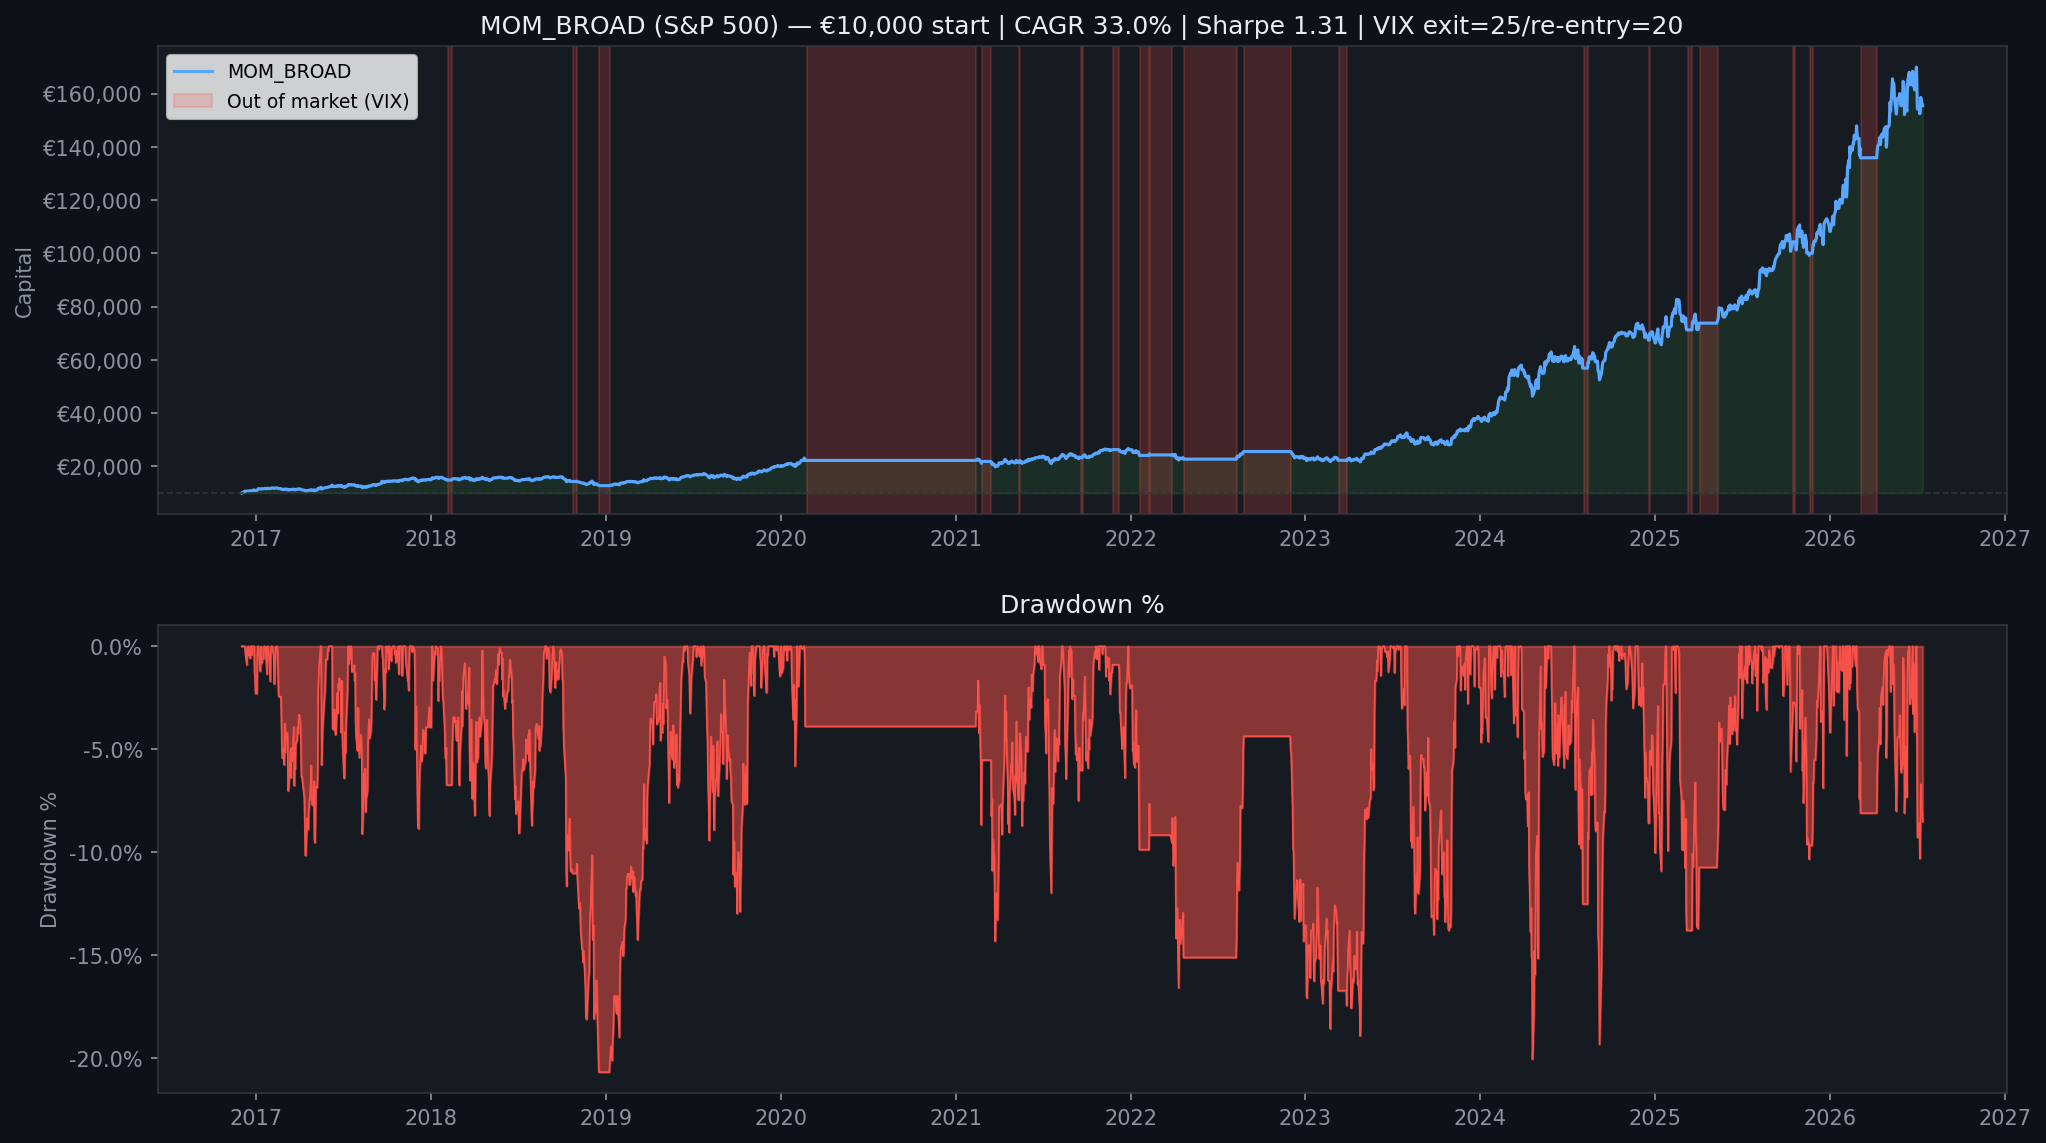
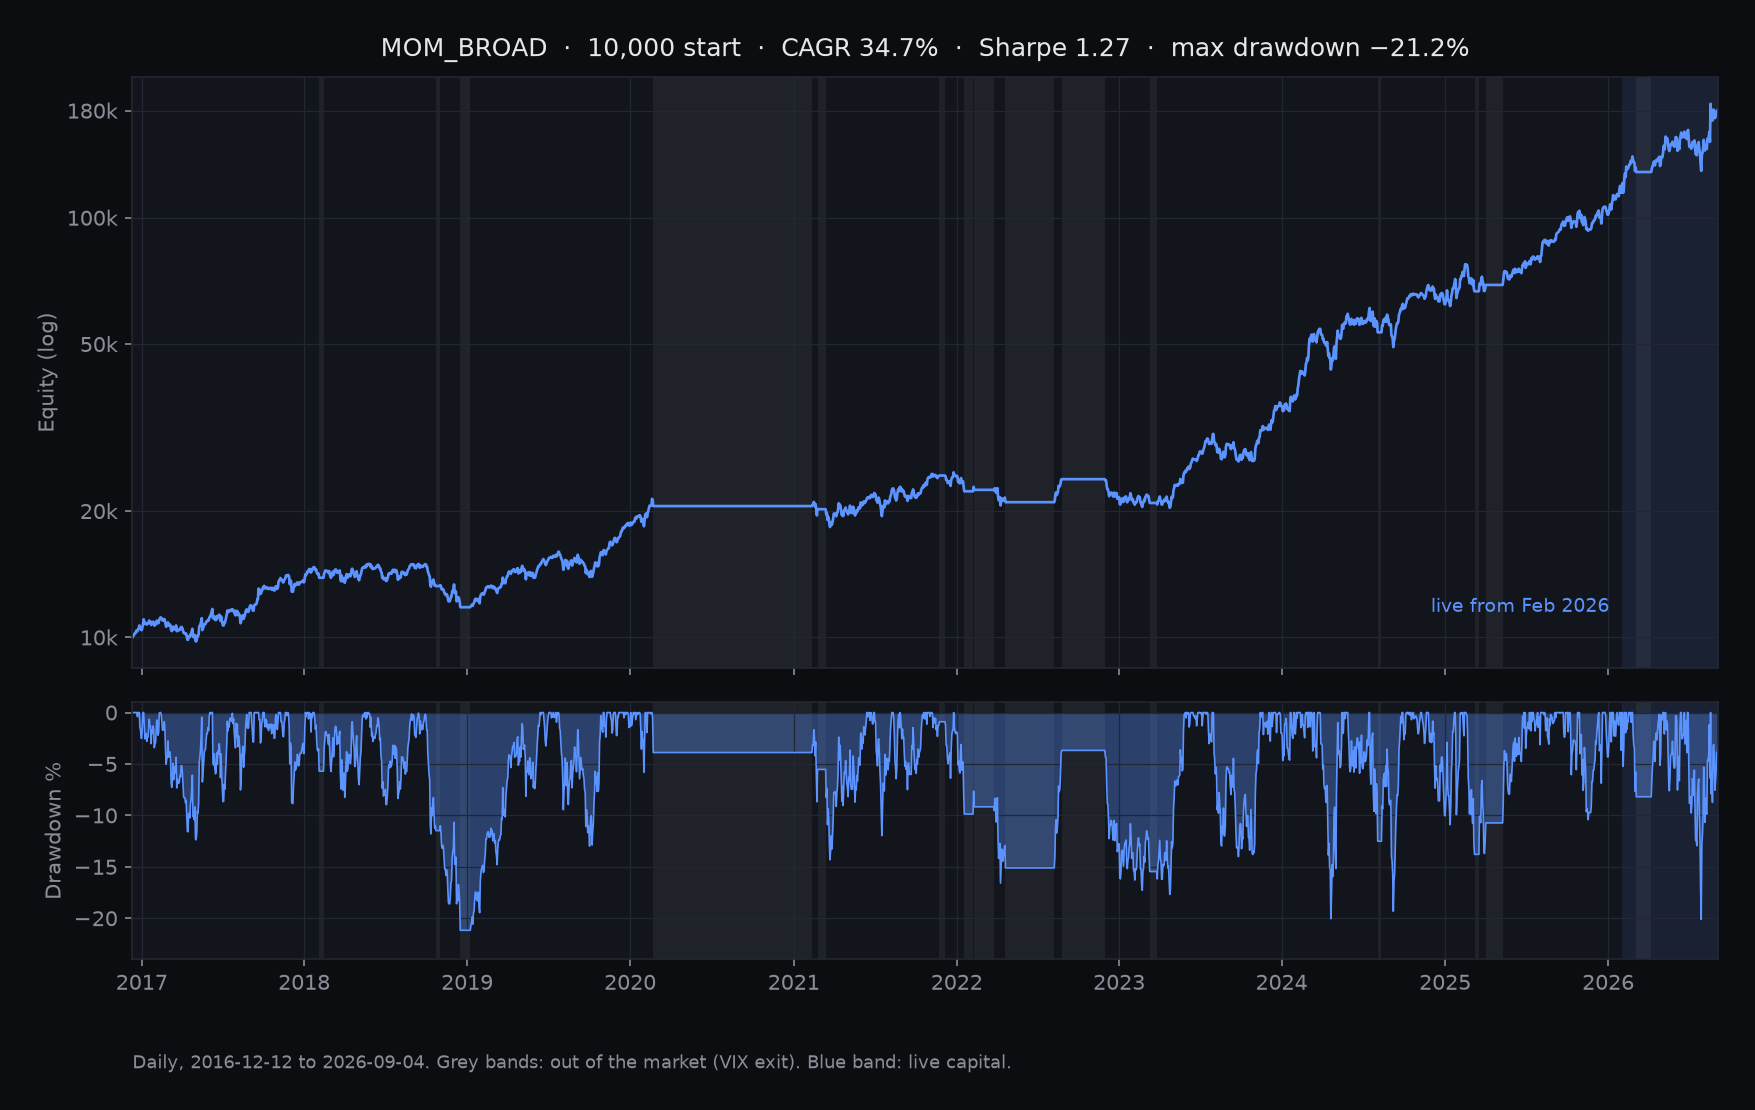
update readmes

diff --git a/swinglab/README.md b/swinglab/README.md
@@ -2,7 +2,7 @@
 
 **My quantitative research platform — and MOM_BROAD, the systematic momentum strategy that came out of it and now trades live with real capital.**
 
-SwingLab is where a trading idea goes from a hypothesis to something I'd actually risk money on: a data layer, a backtesting and stress-testing engine, and a monitoring app, all built from scratch. The strategy it runs live — **MOM_BROAD** — is a broad cross-sectional momentum system over the S&P 500 + Nasdaq-100, developed and walk-forward validated inside the platform and live since January 2026.
+SwingLab is where a trading idea goes from a hypothesis to something I'd actually risk money on: a data layer, a backtesting and stress-testing engine, and a monitoring app, all built from scratch. The strategy it runs live, **MOM_BROAD**, is a broad cross-sectional momentum system over the S&P 500 + Nasdaq-100, developed and walk-forward validated inside the platform and live since February 2026.
 
 <p align="center"><img src="images/platform_ui.png" width="85%" alt="SwingLab platform UI" /></p>
 
@@ -61,10 +61,10 @@ I A/B-tested several sizing schemes against plain equal-weight (Carver-style con
 
 ## Results
 
-Over the backtest (Dec 2016 → Jul 2026), MOM_BROAD grew **€10,000 into roughly €155,000 — about a 33% CAGR** before the survivorship caveat above. More important than the headline number is *how* it got there: the VIX overlay and trend gate are designed to cut the deep drawdowns that plain momentum suffers in a crash.
+Over the daily backtest (12 Dec 2016 to 4 Sep 2026), MOM_BROAD grew **10,000 into roughly 181,000 (+1,712%): a 34.7% CAGR at a 1.27 Sharpe, with a −21.2% max drawdown**, before the survivorship caveat above. Live since 2 February 2026 the real account is up **51.8% at a 1.59 Sharpe**, with a −20.1% max drawdown. These are the same figures the portfolio site shows, read off the same daily equity series. More important than the headline number is *how* it got there: the VIX overlay and trend gate are designed to cut the deep drawdowns that plain momentum suffers in a crash.
 
 <p align="center">
-  <img src="images/equity_curve.png" width="90%" alt="MOM_BROAD equity curve" />
+  <img src="images/equity_curve.png" width="90%" alt="MOM_BROAD daily equity curve and drawdown, log scale, with out-of-market periods and the live stretch shaded" />
 </p>
 
 ### Validation
@@ -91,7 +91,7 @@ Because a good backtest is easy to fake, the strategy is checked the way I'd wan
 
 ## Honesty box
 
-The things the backtest does **not** get to pretend away: current-constituent universes carry survivorship bias (flagged, ~1–3% CAGR); transaction costs are modelled but slippage is approximate; and live results since January 2026 are a tiny sample, not a verdict. Writing these down is part of the discipline — a strategy you can't criticise is one you don't understand.
+The things the backtest does **not** get to pretend away: current-constituent universes carry survivorship bias (flagged, ~1–3% CAGR); transaction costs are modelled but slippage is approximate; and live results since February 2026 are a tiny sample, not a verdict. Writing these down is part of the discipline: a strategy you can't criticise is one you don't understand.
 
 ## Stack
 

diff --git a/README.md b/README.md
@@ -9,12 +9,12 @@ Most of my recent work points at **quantitative finance**: strategy research, ba
 ## Featured projects
 
 ### [SwingLab](swinglab)
-A research platform, backtester, and live monitor for a combined mean-reversion + momentum book — run with real capital. FastAPI + React, with a full stress-test suite (walk-forward, crisis periods, block-bootstrap Monte Carlo, parameter sensitivity).
+A research platform, backtester, and live monitor, and MOM_BROAD, the weekly cross-sectional momentum strategy it runs with real capital since February 2026: a 34.7% CAGR at a 1.27 Sharpe backtested daily since 2016, and a 1.59 Sharpe live so far. FastAPI + React, with a full stress-test suite (walk-forward, crisis periods, block-bootstrap Monte Carlo, parameter sensitivity).
 
 <p align="center"><img src="swinglab/images/equity_curve.png" width="75%" alt="SwingLab equity curve" /></p>
 
 ### [Graph Neural Networks for Stock Prediction](GNN%20project)
-My first quant project: can a GNN predict quarterly Nasdaq-100 returns by modelling the correlation graph between stocks? Statistically significant predictive power (IC 0.051, t = 2.77, p = 0.007) over an 83-quarter walk-forward, validated against Fama-French factors.
+My first quant project: can a GNN predict quarterly Nasdaq-100 returns by modelling the correlation graph between stocks? Statistically significant predictive power (IC 0.051, t = 2.77, p = 0.007) over an 83-quarter walk-forward, and a 9.48% annualised alpha against QQQ (t = 2.80, p = 0.005).
 
 <p align="center"><img src="GNN%20project/visuals/cumulative.png" width="75%" alt="GNN cumulative returns" /></p>
 
@@ -47,6 +47,15 @@ A deep-learning waste classifier wrapped in a full Flask app: MobileNet transfer
 
 <p align="center"><img src="waste-warrior/images/output_1.png" width="45%" alt="Waste classifier prediction" /></p>
 <p align="center"><img src="waste-warrior/images/output_2.png" width="45%" alt="Waste classifier prediction" /></p>
+
+---
+
+## More projects
+
+- **[VTSZ customs classifier](vtsz-customs-classifier):** a self-hosted vision-language model (Qwen2.5-VL on Ollama) that replaces a manual Excel and PDF customs-classification workflow for a client.
+- **[IMC Prosperity 4](imc-prosperity-4):** a global algorithmic trading competition, 223rd of ~18,800 teams solo and 1st in the Netherlands on the manual round.
+- **[Receipt extraction](receipt-extraction):** Tesseract OCR plus a Llama model that turns messy scanned receipts into clean structured data.
+- **[AI Engineer internship](ai-engineer-internship):** a production RAG system with a custom LLaMA model and an interactive avatar, deployed on GCP.
 
 ---
 

diff --git a/imc-prosperity-4/README.md b/imc-prosperity-4/README.md
@@ -1,0 +1,21 @@
+# IMC Prosperity 4 solo entry
+
+**A global trading competition, 223rd of 18,800 teams solo, 1st in the Netherlands on the manual round.**
+
+Solo · Competition · Algorithmic trading · 2026 · Complete
+
+| of 18,800 teams | Netherlands, overall | Manual round |
+|---|---|---|
+| **223rd** | **7th** | **1st NL** |
+
+<p align="center"><img src="images/leaderboard.jpg" width="85%" alt="Final leaderboard: #223 overall, #7 country, #33 manual globally." /></p>
+
+---
+
+A global algorithmic trading competition run across timed rounds, mixing an algo trading challenge with separate manual reasoning puzzles each round. I competed solo, against roughly 18,800 teams and over 30,000 participants total, finishing 223rd overall, 7th in the Netherlands overall, and 1st in the Netherlands on the manual challenges (33rd globally).
+
+On the algorithmic side, work centered on pricing voucher options, estimating implied volatility and fitting it to a smile across strikes, then converting deviations from that smile into cross-sectional z-scores to flag mispriced vouchers. A market-making layer balanced quote competitiveness against inventory risk, with a regime-detection layer adjusting behavior as the simulated market's conditions shifted mid-round.
+
+Round 3 was humbling: an overfit algorithm looked incredible on the backtest and fell apart the moment live data arrived. From then on I optimized for strategies that were theoretically sound rather than ones that simply scored highest on a historical curve, which is what drove the results in rounds 4 and 5. For the manual rounds, the assumption was that most competitors would paste the problem into an LLM and run with the first answer, so instead of optimizing for the textbook-correct answer, I modeled what the crowd's likely solution would be and worked out where the real edge sat once everyone else had clustered around it. Against other humans, thinking about what they'll do beats pure optimization.
+
+**Stack:** `Python` · `NumPy` · `pandas`

diff --git a/vtsz-customs-classifier/README.md b/vtsz-customs-classifier/README.md
@@ -1,0 +1,19 @@
+# VTSZ customs classifier
+
+**A local vision-language model replaces a manual Excel and PDF customs-classification workflow.**
+
+Client · Solo · Applied vision-language · 2025 · Working prototype
+
+| Candidate recall | Final pick split | Candidate list, pruned |
+|---|---|---|
+| **100%** | **58/42** | **480 → 12** |
+
+---
+
+A client (Zoomlion machine parts) was manually classifying products into Hungarian customs codes using a consumer chat tool plus Excel and PDF uploads, slow, and it wasn't even clear whether the client's contracts allowed external APIs to touch this data. This project builds a self-hosted alternative that sidesteps that question entirely.
+
+A local Qwen2.5-VL 7B model, quantized and served through Ollama on a consumer GPU, reads product images pulled from the PDF catalog alongside text fields from the source spreadsheet. For each item it proposes two competing classification scenarios, one machine-specific, one material or function based, and a Streamlit review app lets a customs expert pick between them.
+
+The first version fed the model a candidate list of roughly 480 possible codes per item, and accuracy was bad. Narrowing that list down to the roughly 12 actually relevant codes per item fixed nearly all of it, the model was never the real constraint, the search space was. The model now retrieves the right pair of candidates 100% of the time and picks the correct final code 58% of the time, with its own confidence signal well-calibrated against human corrections, a lead for improving accuracy without retraining anything.
+
+**Stack:** `Python` · `Qwen2.5-VL` · `Ollama` · `Streamlit`

diff --git a/ai-engineer-internship/README.md b/ai-engineer-internship/README.md
@@ -1,0 +1,19 @@
+# AI Engineer internship
+
+**RAG, a custom LLaMA model, and an interactive avatar, live to real users.**
+
+Internship · Production ML · 2025 · Jun 2025 – Jun 2026
+
+| System type | Cloud Run + Firebase | Demo layer |
+|---|---|---|
+| **RAG** | **GCP** | **Unity** |
+
+---
+
+An AI engineering internship at AIGENTIC Compliance, building a production Retrieval-Augmented Generation system with an interactive avatar interface, wiring a custom LLaMA model together with external APIs behind it.
+
+The application is full-stack: a FastAPI backend and JavaScript frontend with hardened security and robust API integrations, deployed across Google Cloud Run and Firebase. I worked with a senior engineer to slot a complex proxy system into the existing infrastructure, and shipped a Unity demo game that showcases the product to users.
+
+Alongside the core system I built a monitoring dashboard tracking user interactions, API calls, and performance across both the site and the app, and helped update the company website so the RAG system and its interactive features integrate seamlessly.
+
+**Stack:** `FastAPI` · `LLaMA` · `GCP` · `Firebase` · `Unity`

diff --git a/receipt-extraction/README.md b/receipt-extraction/README.md
@@ -1,0 +1,19 @@
+# Receipt extraction OCR + LLM
+
+**Turning messy scanned receipts into clean structured data, no manual retyping.**
+
+Solo · Applied ML pipeline · 2025 · Complete
+
+| OCR pass | Structuring | Built |
+|---|---|---|
+| **Tesseract** | **Llama** | **Jun–Sep 2025** |
+
+<p align="center"><img src="images/ocr_llm.png" width="85%" alt="Pipeline: raw OCR text vs. the cleaned, structured result." /></p>
+
+---
+
+Manually entering data from scanned receipts is slow and error-prone, especially when scans are low quality, skewed, or faded. This pipeline reads a scanned receipt and returns clean, structured data automatically.
+
+Tesseract handles the raw OCR pass, pulling text out of the image even when quality is poor. That messy raw output is then passed to a Llama model, which cleans it up and structures it into the fields that matter (items, prices, totals, dates), correcting the kind of OCR noise that would trip up a purely rule-based parser.
+
+**Stack:** `Python` · `Tesseract` · `Llama`

diff --git a/npec-root-analysis/README.md b/npec-root-analysis/README.md
@@ -24,7 +24,7 @@ A **4-class U-Net** (background, root, seed, shoot) runs patch-based inference (
 </p>
 
 ### Measurement
-Rather than a crude pixel count, root length is measured by **skeletonizing** the mask and running **Dijkstra pathfinding** from the root tip down its longest branch — which also gives the exact tip coordinate the robot needs.
+Rather than a crude pixel count, root length is measured by **skeletonizing** the mask and running **Dijkstra pathfinding** from the root tip down its longest branch, which also gives the exact tip coordinate the robot needs. Validated per plant on a real test batch, it measured lengths from 611 to over 1,300 pixels, and correctly returned zero for a plant with no visible root instead of guessing.
 <p align="center">
   <img src="images/root-length-measurements.png" width="70%" alt="Per-target movement and error analysis" />
 </p>
